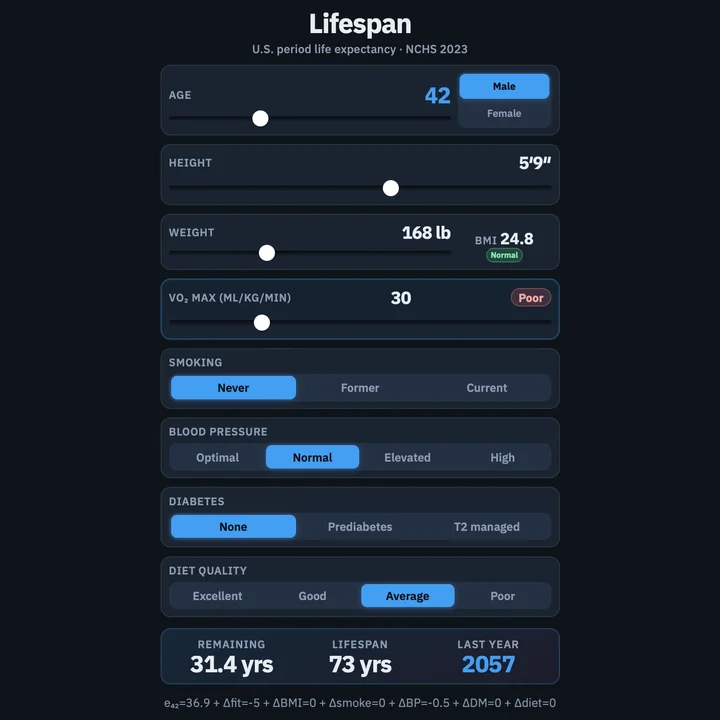
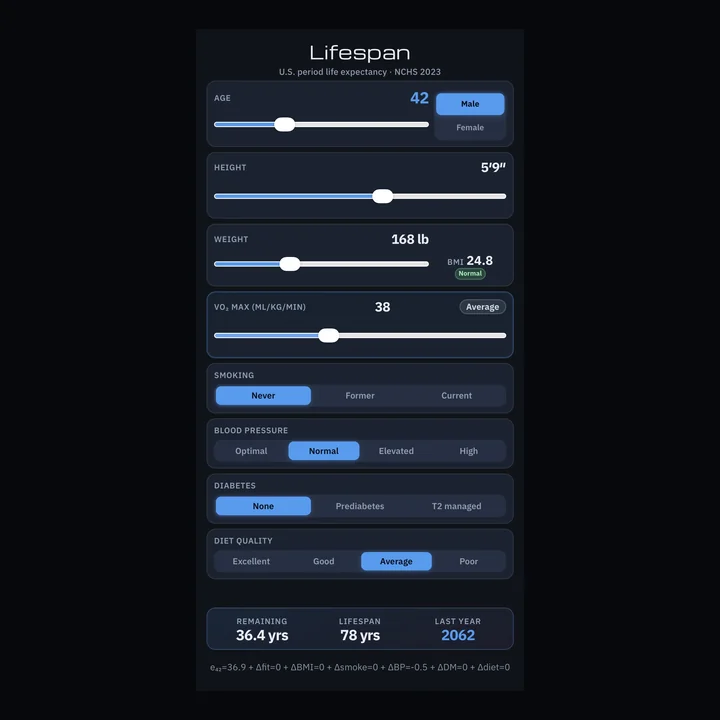
Hub: replace Lifespan card with IMG_4122 letterboxed full phone shot.

Changed region(s): [[0.2139, 0.0, 0.7944, 1.0]]

diff --git a/index.html b/index.html
@@ -277,7 +277,7 @@
           <a class="card" href="https://lifespan.markmaga.com" data-app="lifespan-app" aria-label="Lifespan">
             <span class="card-media">
               <img
-                src="images/lifespan-app.webp"
+                src="images/lifespan-app.webp?v=2"
                 alt=""
                 width="720"
                 height="720"
